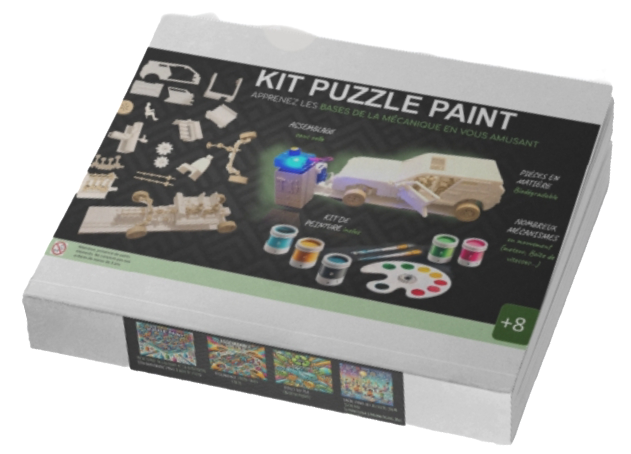
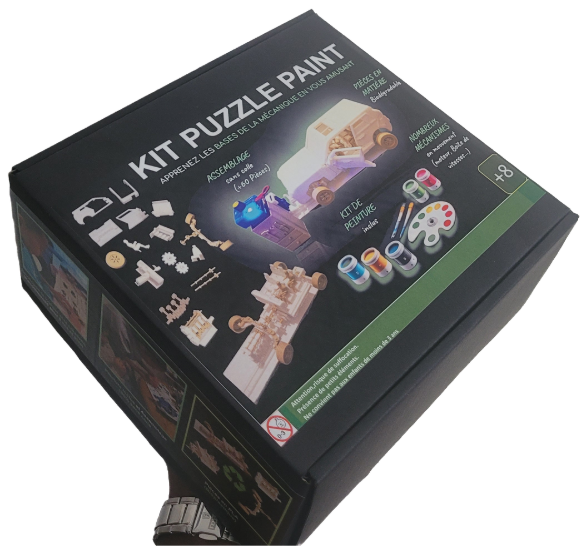
correction image boxKIT et text index

diff --git a/index.html b/index.html
@@ -62,8 +62,8 @@
                     <button class="carousel-btn prev-btn">◀</button>
                     <button class="carousel-btn next-btn">▶</button>
                 </div>
-                <p>Le Kit Puzzle-Paint est <span style="color: rgb(32, 172, 123);">conçu pour éveiller la créativité et enseigner les principes mécaniques de manière ludique.></span></p>
-                Avec plus de 60 pièces, découvre le plaisir d'assembler (sans colle) ton propre modèle fonctionnel. Un kit de peinture est inclus pour personnaliser la maquette à ta guise. 
+                <p>Le Kit Puzzle-Paint est <span style="color: rgb(32, 172, 123);">conçu pour éveiller la créativité et enseigner les principes mécaniques de manière ludique.</span></p>
+                Avec plus de 60 pièces à assembler sans colle, découvre le plaisir de construire et personnaliser à ta guise ton propre modèle fonctionnel. 
             </div>
         </section>
 
@@ -74,6 +74,9 @@
                 <div id="carousel2" class="carousel">
                     <div class="carousel-track-container">
                         <ul class="carousel-track">
+                            <li class="carousel-slide current-slide">
+                                <img src="boxkit.png" alt="Image 1">
+                            </li>
                             <li class="carousel-slide current-slide">
                                 <img src="mecanismeskit.png" alt="Image 1">
                             </li>

diff --git a/payment.js b/payment.js
@@ -1,0 +1,12 @@
+document.addEventListener('DOMContentLoaded', () => {
+    const totalPaymentElement = document.getElementById('total-payment'); // Assurez-vous que cet élément existe
+
+    // Récupérer le total depuis localStorage
+    let total = localStorage.getItem('totalPayment');
+
+    if (total) {
+        totalPaymentElement.textContent = `Total à payer : ${total}€`;
+    } else {
+        totalPaymentElement.textContent = "Total à payer : 0€"; // Valeur par défaut si le total est introuvable
+    }
+});
